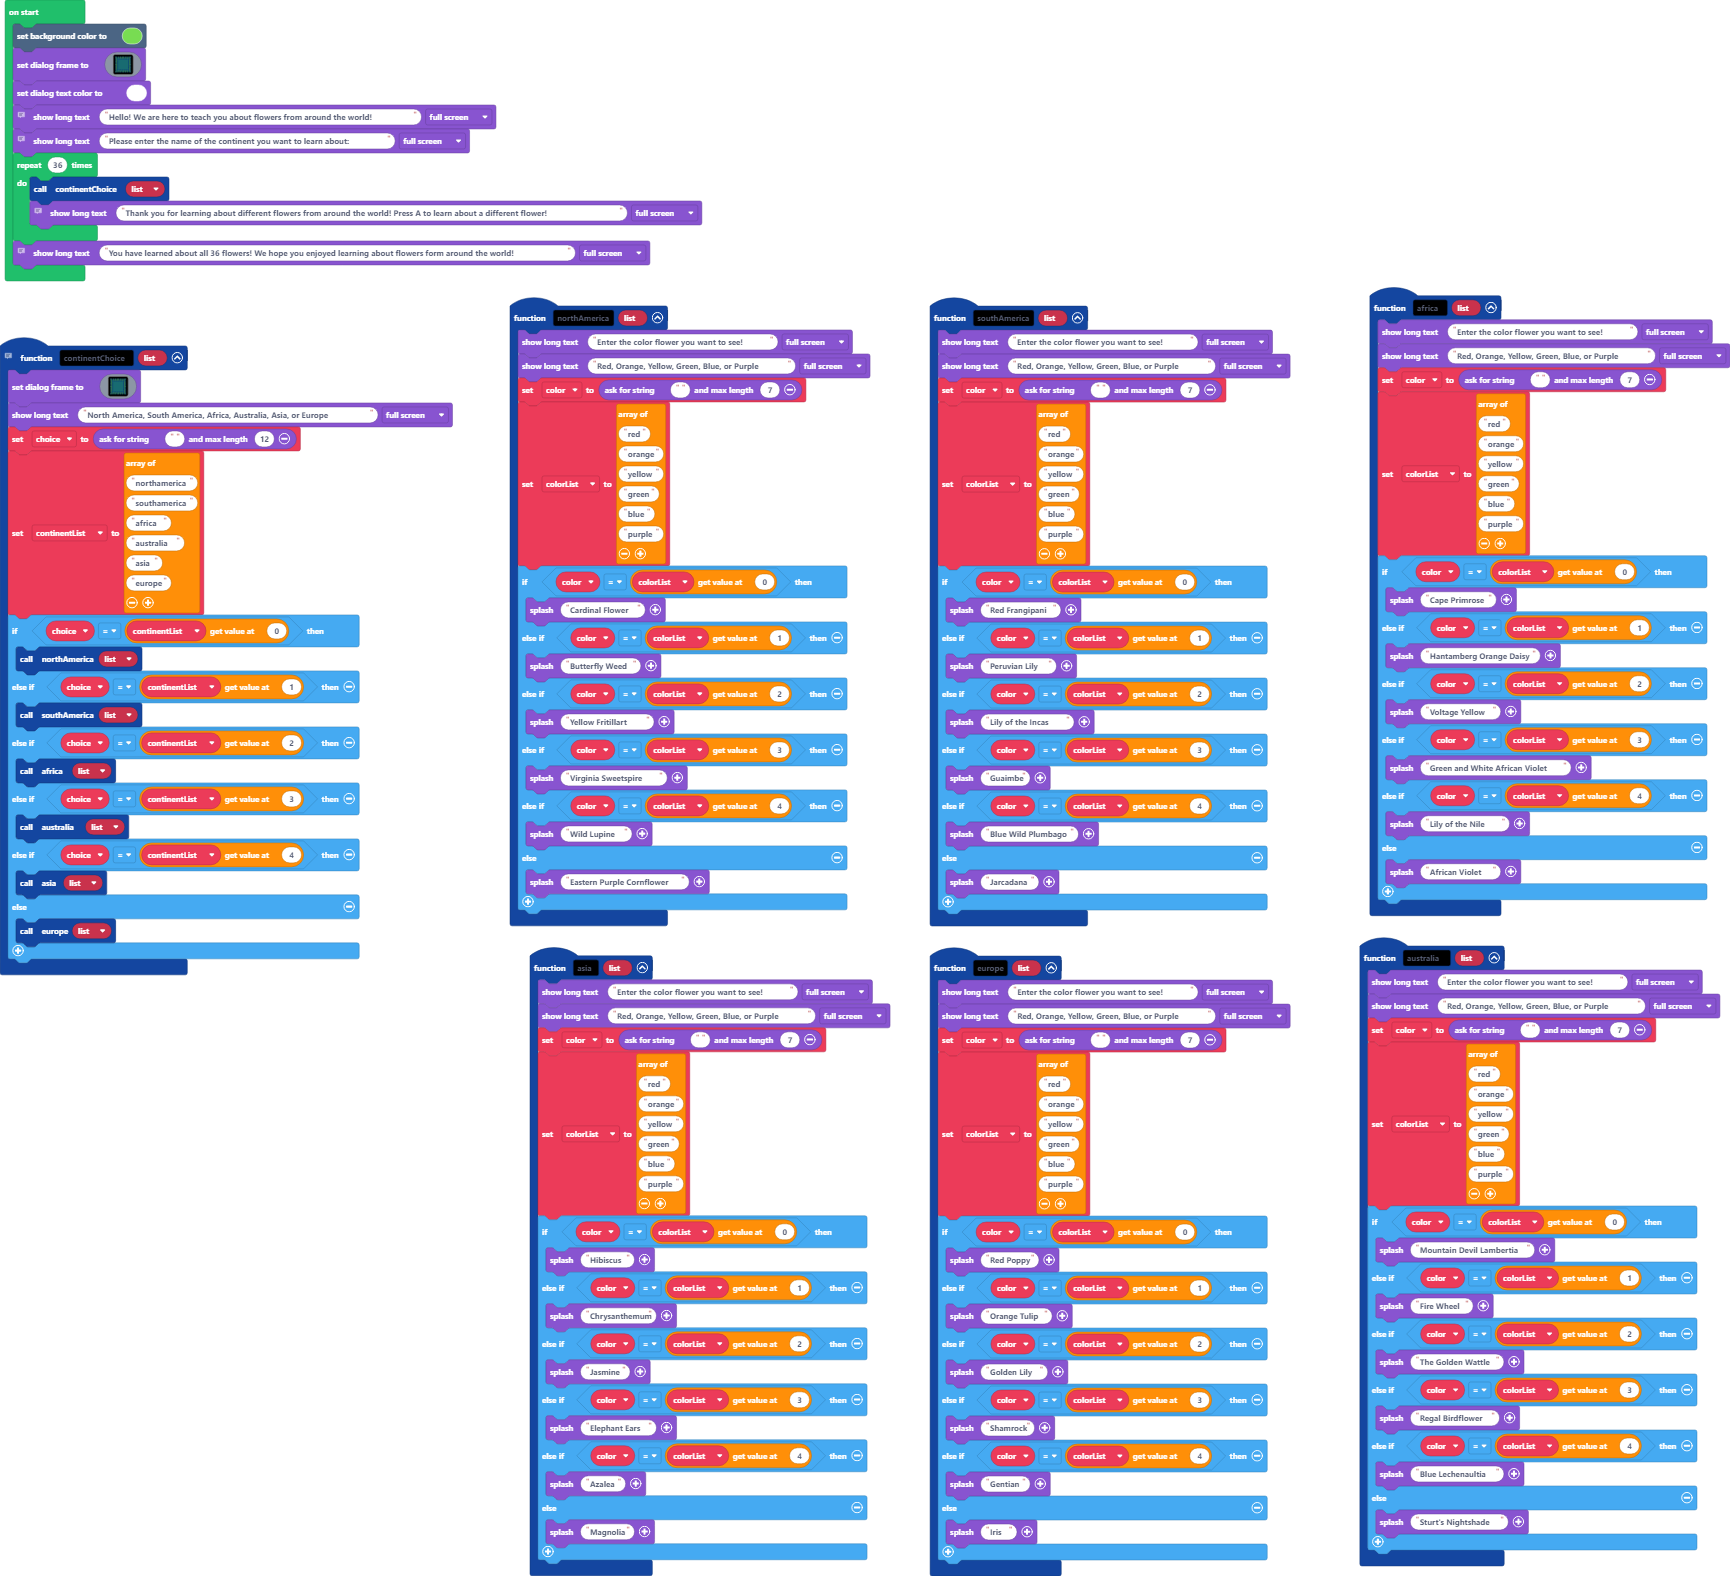
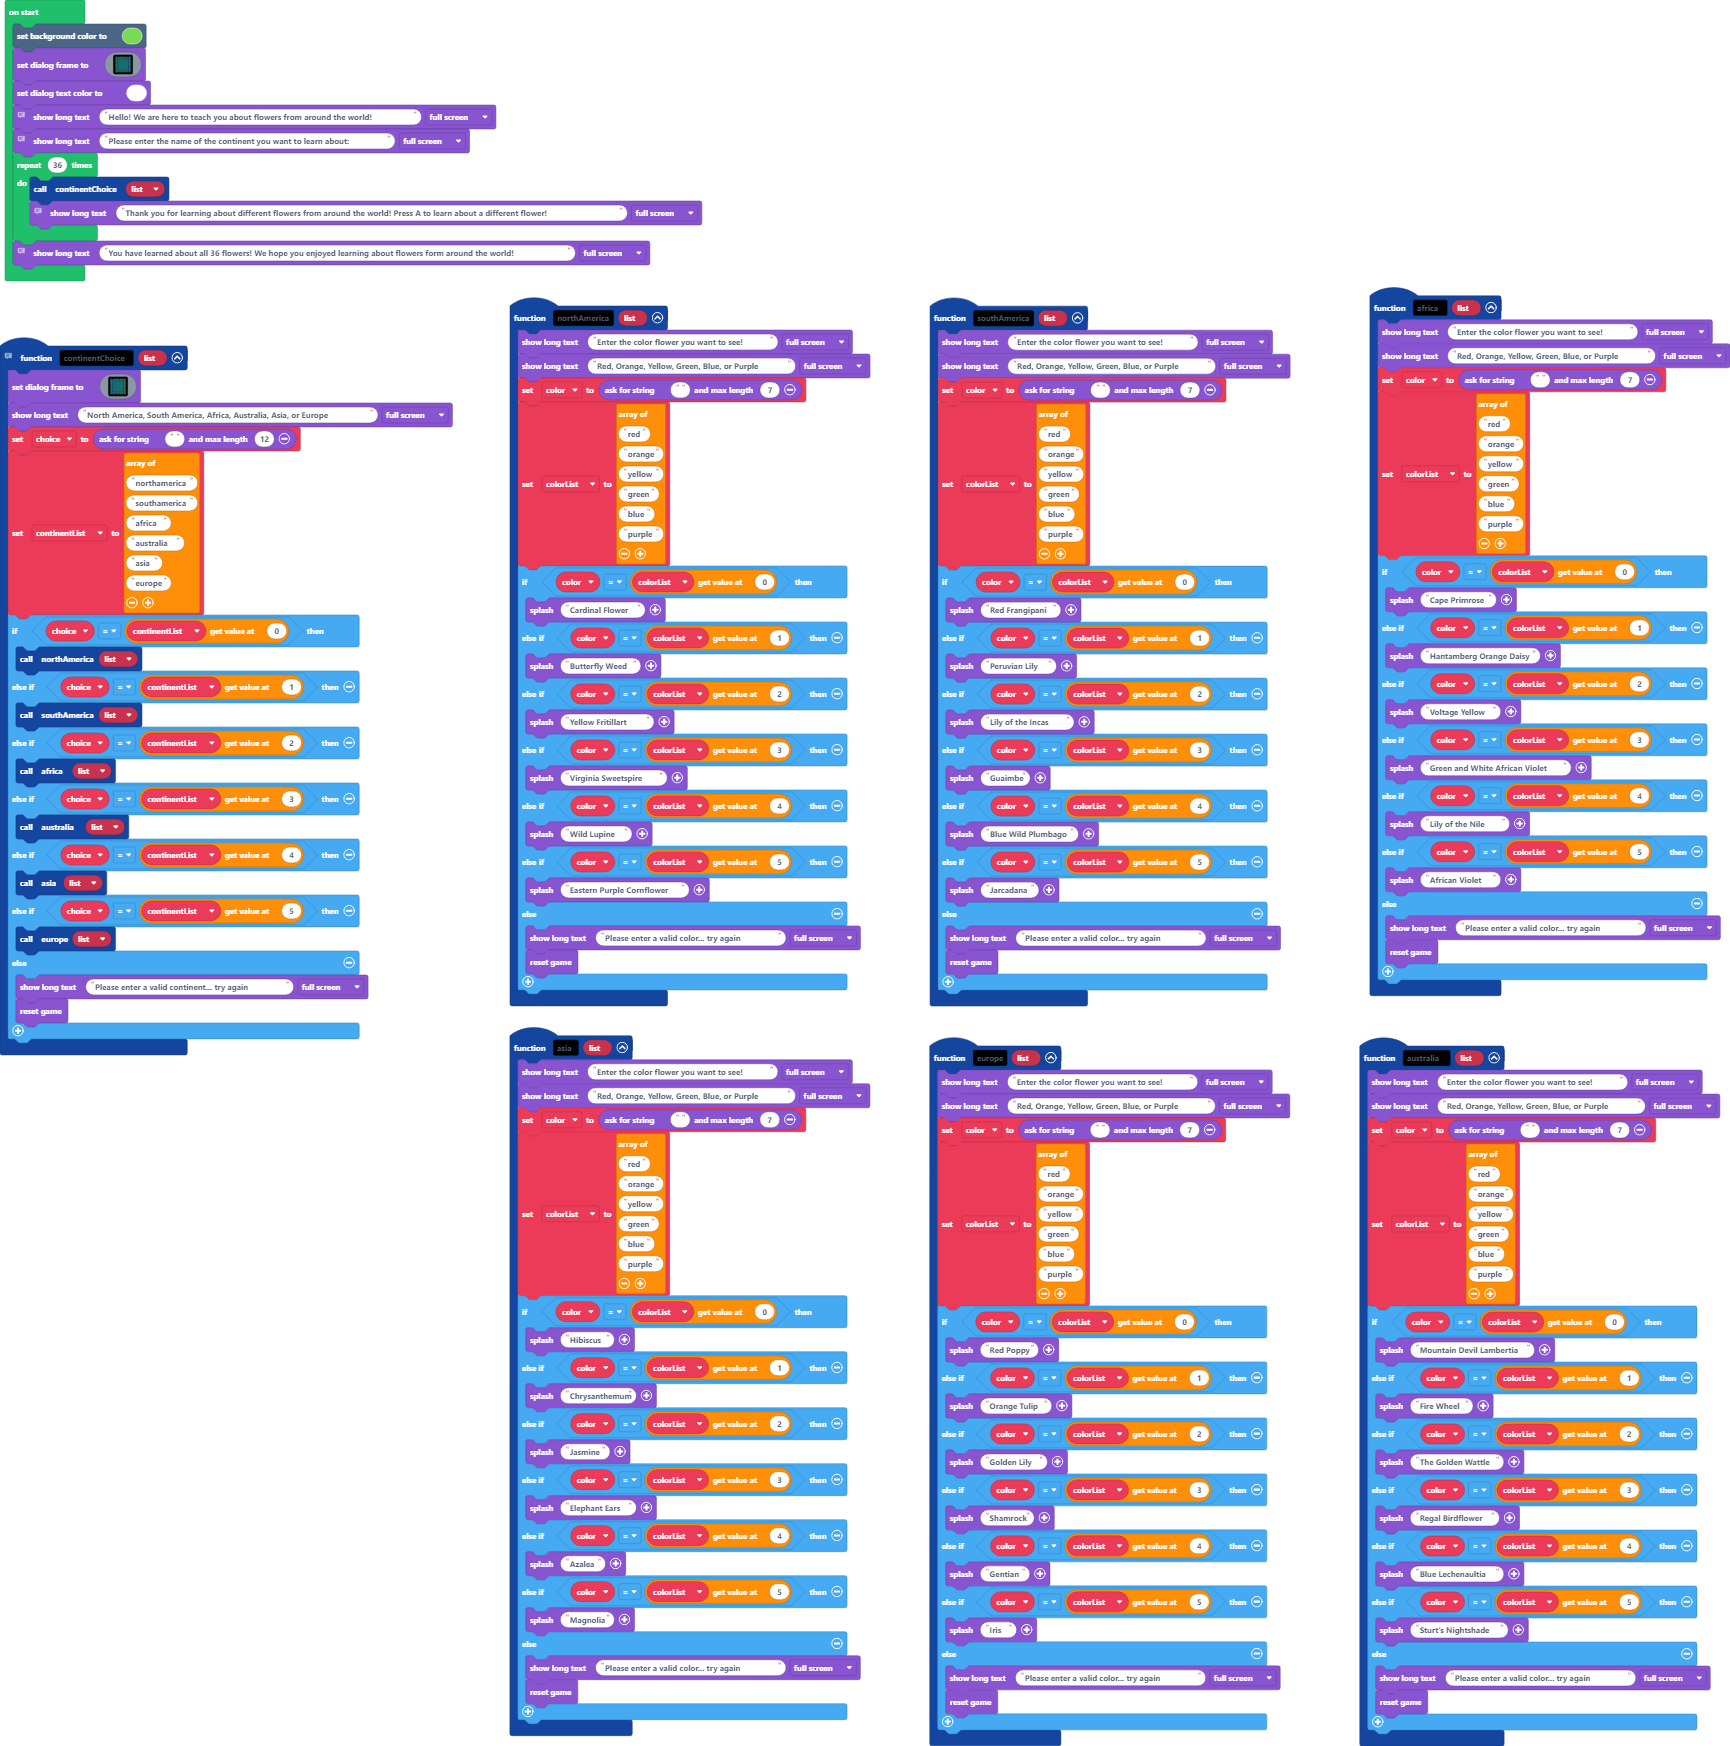
Update main.blocks, main.ts

diff --git a/main.ts b/main.ts
@@ -20,8 +20,11 @@ function asia (list: any[]) {
         game.splash("Elephant Ears")
     } else if (color == colorList[4]) {
         game.splash("Azalea")
-    } else {
+    } else if (color == colorList[5]) {
         game.splash("Magnolia")
+    } else {
+        game.showLongText("Please enter a valid color... try again", DialogLayout.Full)
+        game.reset()
     }
 }
 function northAmerica (list: any[]) {
@@ -46,8 +49,11 @@ function northAmerica (list: any[]) {
         game.splash("Virginia Sweetspire ")
     } else if (color == colorList[4]) {
         game.splash("Wild Lupine ")
-    } else {
+    } else if (color == colorList[5]) {
         game.splash("Eastern Purple Cornflower")
+    } else {
+        game.showLongText("Please enter a valid color... try again", DialogLayout.Full)
+        game.reset()
     }
 }
 function australia (list: any[]) {
@@ -72,8 +78,11 @@ function australia (list: any[]) {
         game.splash("Regal Birdflower")
     } else if (color == colorList[4]) {
         game.splash("Blue Lechenaultia")
-    } else {
+    } else if (color == colorList[5]) {
         game.splash("Sturt's Nightshade")
+    } else {
+        game.showLongText("Please enter a valid color... try again", DialogLayout.Full)
+        game.reset()
     }
 }
 function europe (list: any[]) {
@@ -98,8 +107,11 @@ function europe (list: any[]) {
         game.splash("Shamrock")
     } else if (color == colorList[4]) {
         game.splash("Gentian")
-    } else {
+    } else if (color == colorList[5]) {
         game.splash("Iris")
+    } else {
+        game.showLongText("Please enter a valid color... try again", DialogLayout.Full)
+        game.reset()
     }
 }
 function southAmerica (list: any[]) {
@@ -124,8 +136,11 @@ function southAmerica (list: any[]) {
         game.splash("Guaimbe")
     } else if (color == colorList[4]) {
         game.splash("Blue Wild Plumbago")
-    } else {
+    } else if (color == colorList[5]) {
         game.splash("Jarcadana")
+    } else {
+        game.showLongText("Please enter a valid color... try again", DialogLayout.Full)
+        game.reset()
     }
 }
 function africa (list: any[]) {
@@ -150,8 +165,11 @@ function africa (list: any[]) {
         game.splash("Green and White African Violet")
     } else if (color == colorList[4]) {
         game.splash("Lily of the Nile")
-    } else {
+    } else if (color == colorList[5]) {
         game.splash("African Violet")
+    } else {
+        game.showLongText("Please enter a valid color... try again", DialogLayout.Full)
+        game.reset()
     }
 }
 // this function takes the user to the next step and shows them the choices and asks them for a number
@@ -226,8 +244,11 @@ function continentChoice (list: any[]) {
         australia(list)
     } else if (choice == continentList[4]) {
         asia(list)
-    } else {
+    } else if (choice == continentList[5]) {
         europe(list)
+    } else {
+        game.showLongText("Please enter a valid continent... try again", DialogLayout.Full)
+        game.reset()
     }
 }
 let continentList: string[] = []
